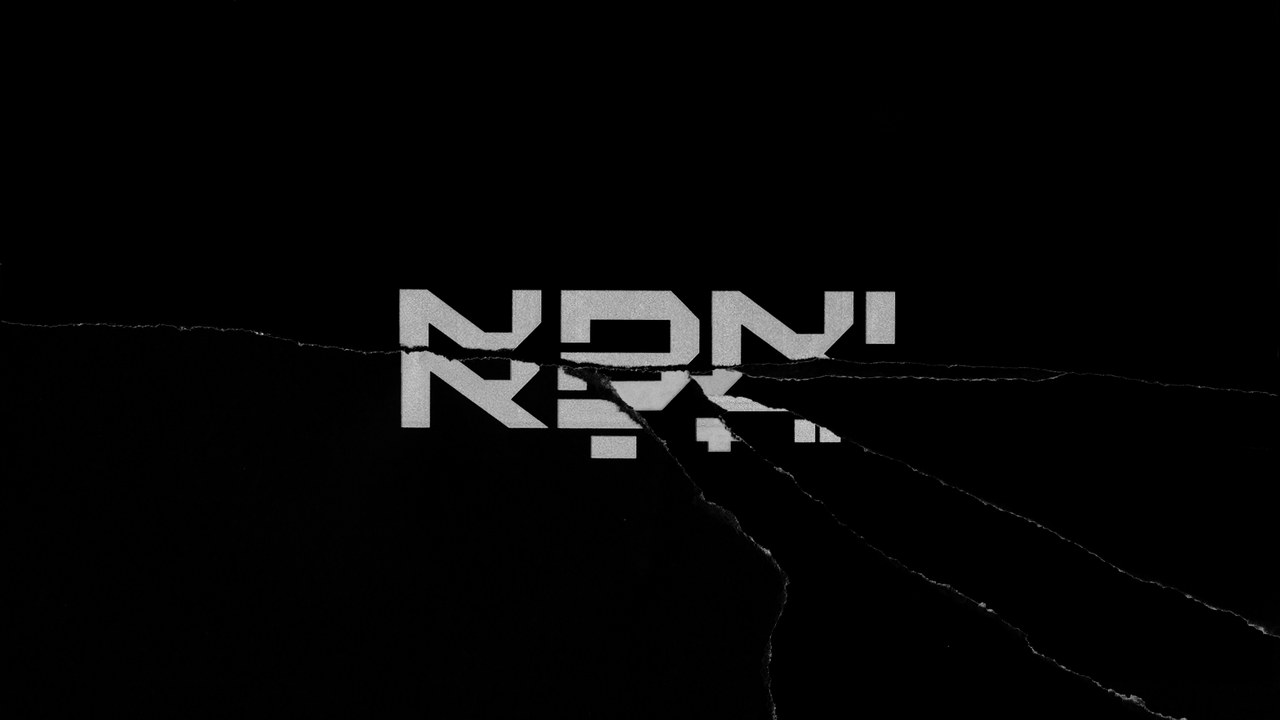
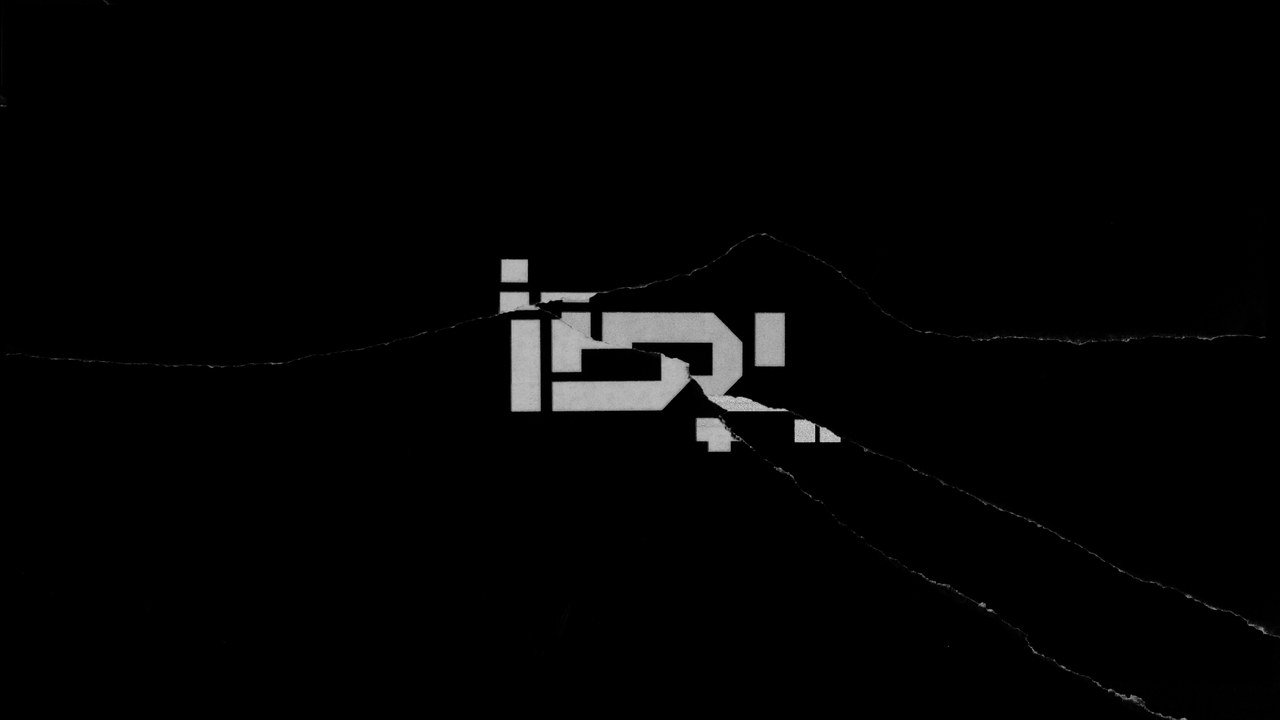
Dolomit In Use: swap the still to Still006
The still and the video were landing on near-identical frames, so the two
cells read as a duplicate. Still006 catches the tear at a different point,
with the letters in another position, so the pair now shows two moments
instead of one twice. Alt text updated to match. Same 1280x720, 21K.

Changed region(s): [[0.3125, 0.3361, 0.7188, 0.6417]]

diff --git a/dolomit.html b/dolomit.html
@@ -1199,7 +1199,7 @@
         </video>
       </div>
       <div class="in-use-item">
-        <img src="photos/dolomit/in-use/4.jpg" alt="Dolomit typeface in use, a still from the Jaffa title sequence with the Hebrew word Jaffa split and offset in white on black" loading="lazy" />
+        <img src="photos/dolomit/in-use/4.jpg" alt="Dolomit typeface in use, a still from the Jaffa title sequence with the Hebrew word Jaffa torn along a ridge, the lower half dropped away in white on black" loading="lazy" />
       </div>
     </div>
     <div class="photo-credit">
